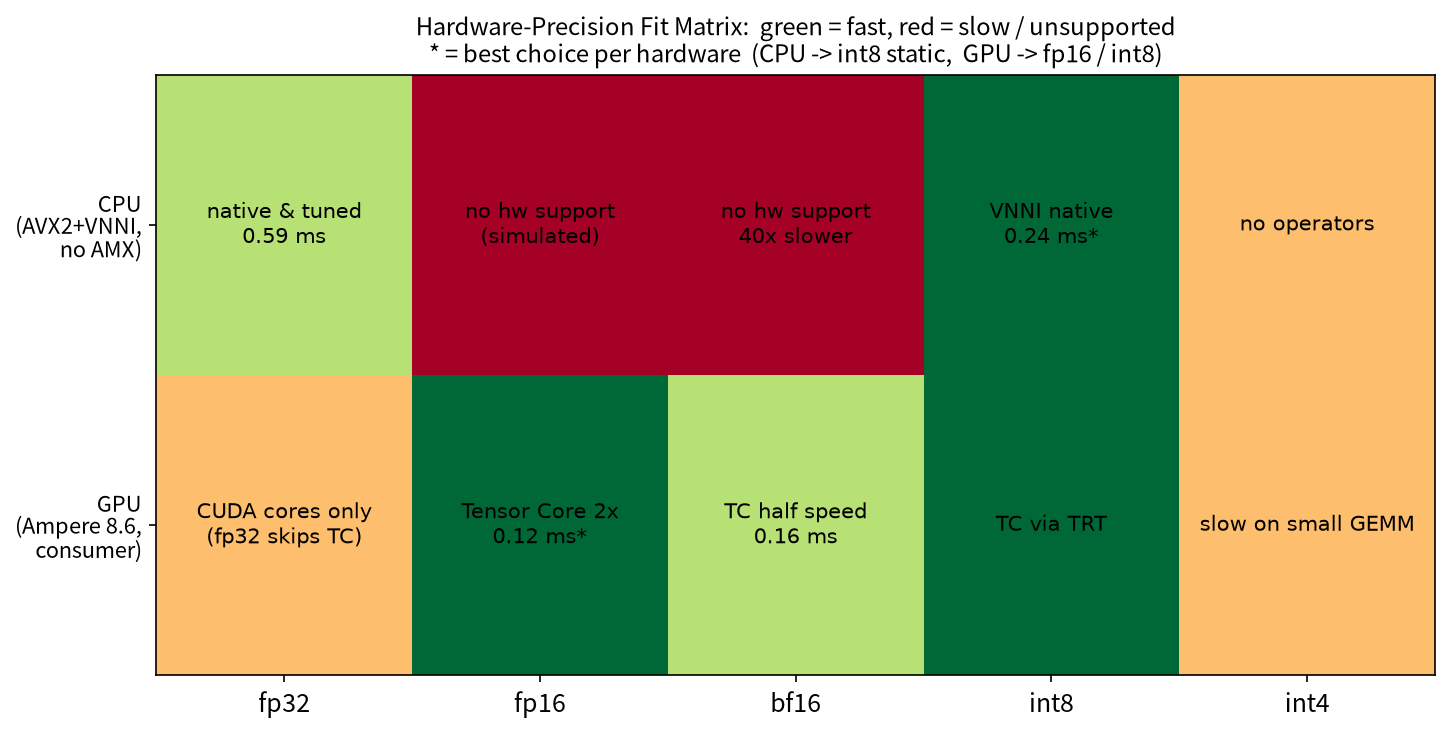
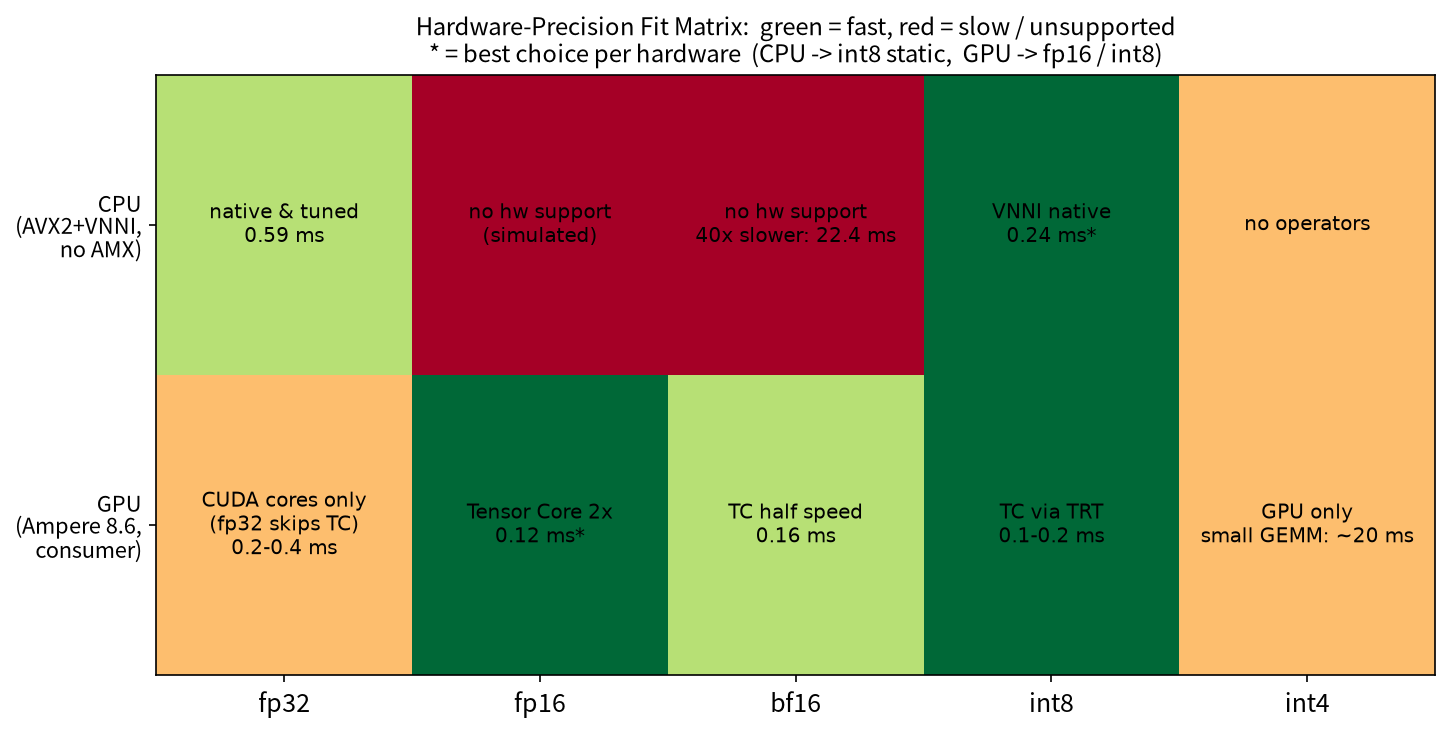
docs: 硬件-精度矩阵补全全部格子的实测数据

diff --git a/src/make_charts.py b/src/make_charts.py
@@ -200,11 +200,11 @@ def hw_precision_matrix():
         [1, 3, 2, 3, 1],   # GPU
     ], dtype=float)
     im = ax.imshow(data, cmap="RdYlGn", vmin=0, vmax=3, aspect="auto")
-    notes = [["native & tuned\n0.59 ms", "no hw support\n(simulated)", "no hw support\n40x slower", "VNNI native\n0.24 ms*", "no operators"],
-             ["CUDA cores only\n(fp32 skips TC)", "Tensor Core 2x\n0.12 ms*", "TC half speed\n0.16 ms", "TC via TRT", "slow on small GEMM"]]
+    notes = [["native & tuned\n0.59 ms", "no hw support\n(simulated)", "no hw support\n40x slower: 22.4 ms", "VNNI native\n0.24 ms*", "no operators"],
+             ["CUDA cores only\n(fp32 skips TC)\n0.2-0.4 ms", "Tensor Core 2x\n0.12 ms*", "TC half speed\n0.16 ms", "TC via TRT\n0.1-0.2 ms", "GPU only\nsmall GEMM: ~20 ms"]]
     for i in range(2):
         for j in range(5):
-            ax.text(j, i, notes[i][j], ha="center", va="center", fontsize=10)
+            ax.text(j, i, notes[i][j], ha="center", va="center", fontsize=9.5)
     ax.set_xticks(range(5)); ax.set_xticklabels(cols, fontsize=12)
     ax.set_yticks(range(2)); ax.set_yticklabels(rows, fontsize=10.5)
     ax.set_title("Hardware-Precision Fit Matrix:  green = fast, red = slow / unsupported\n"
